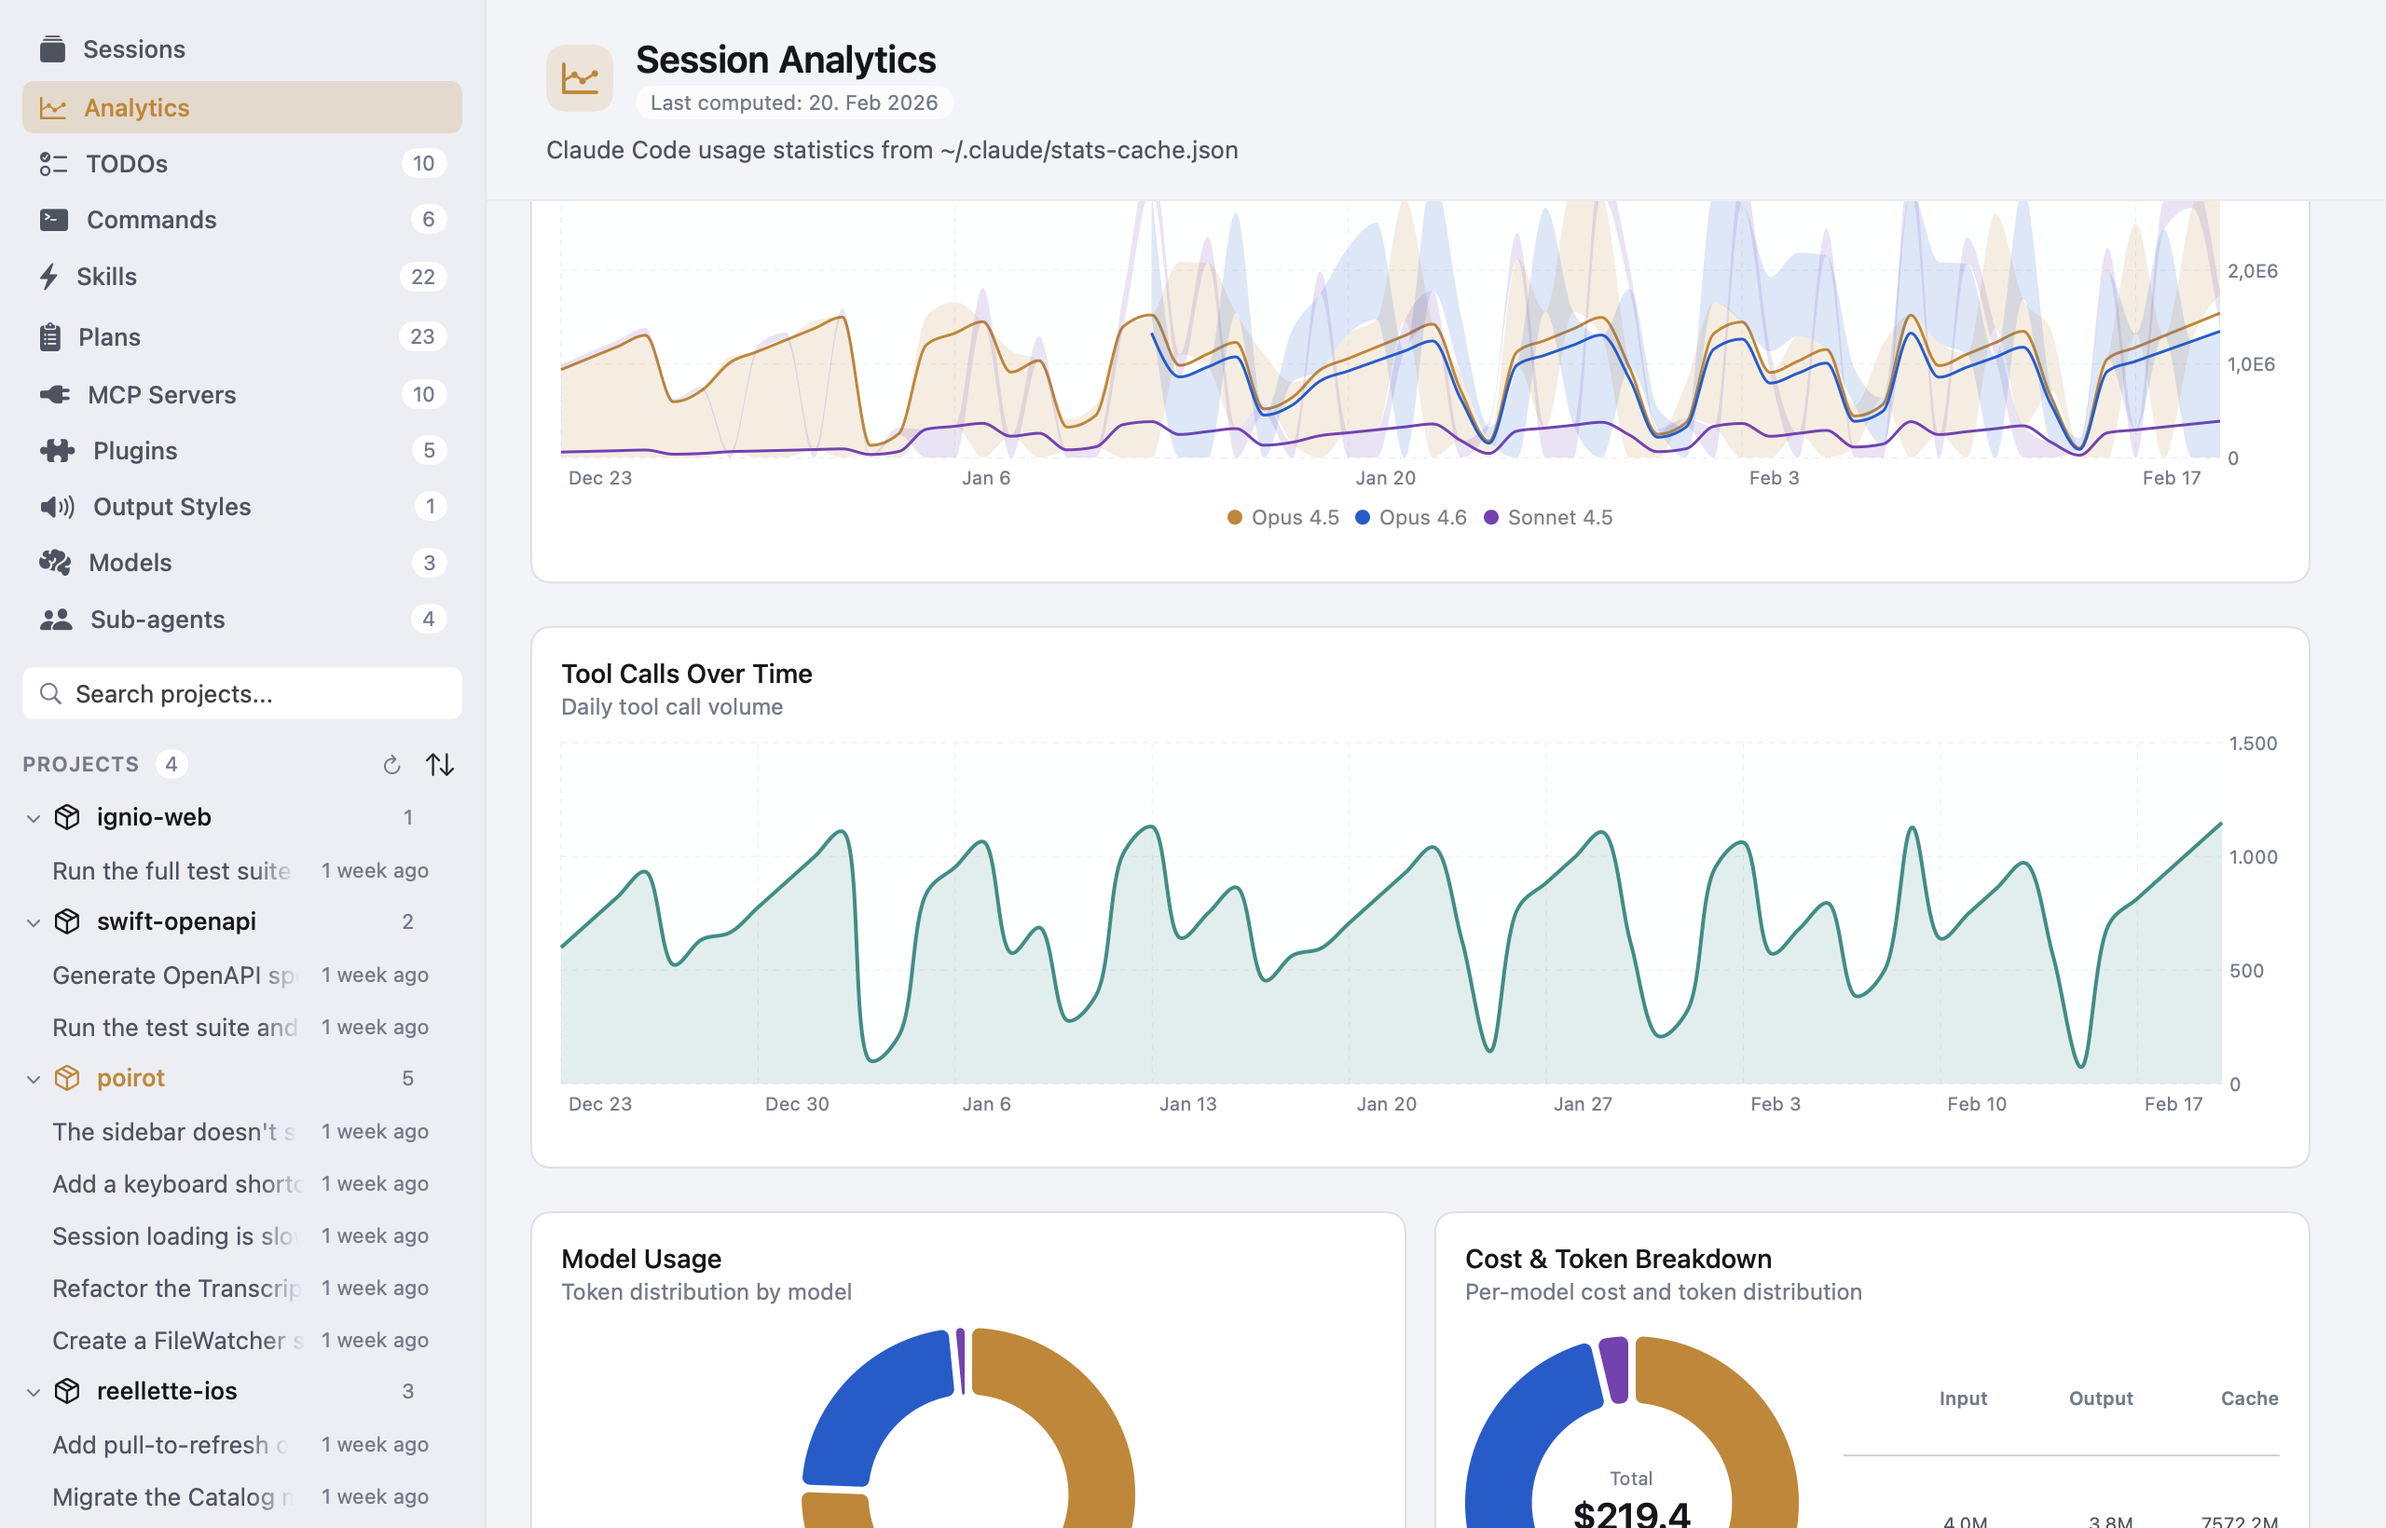
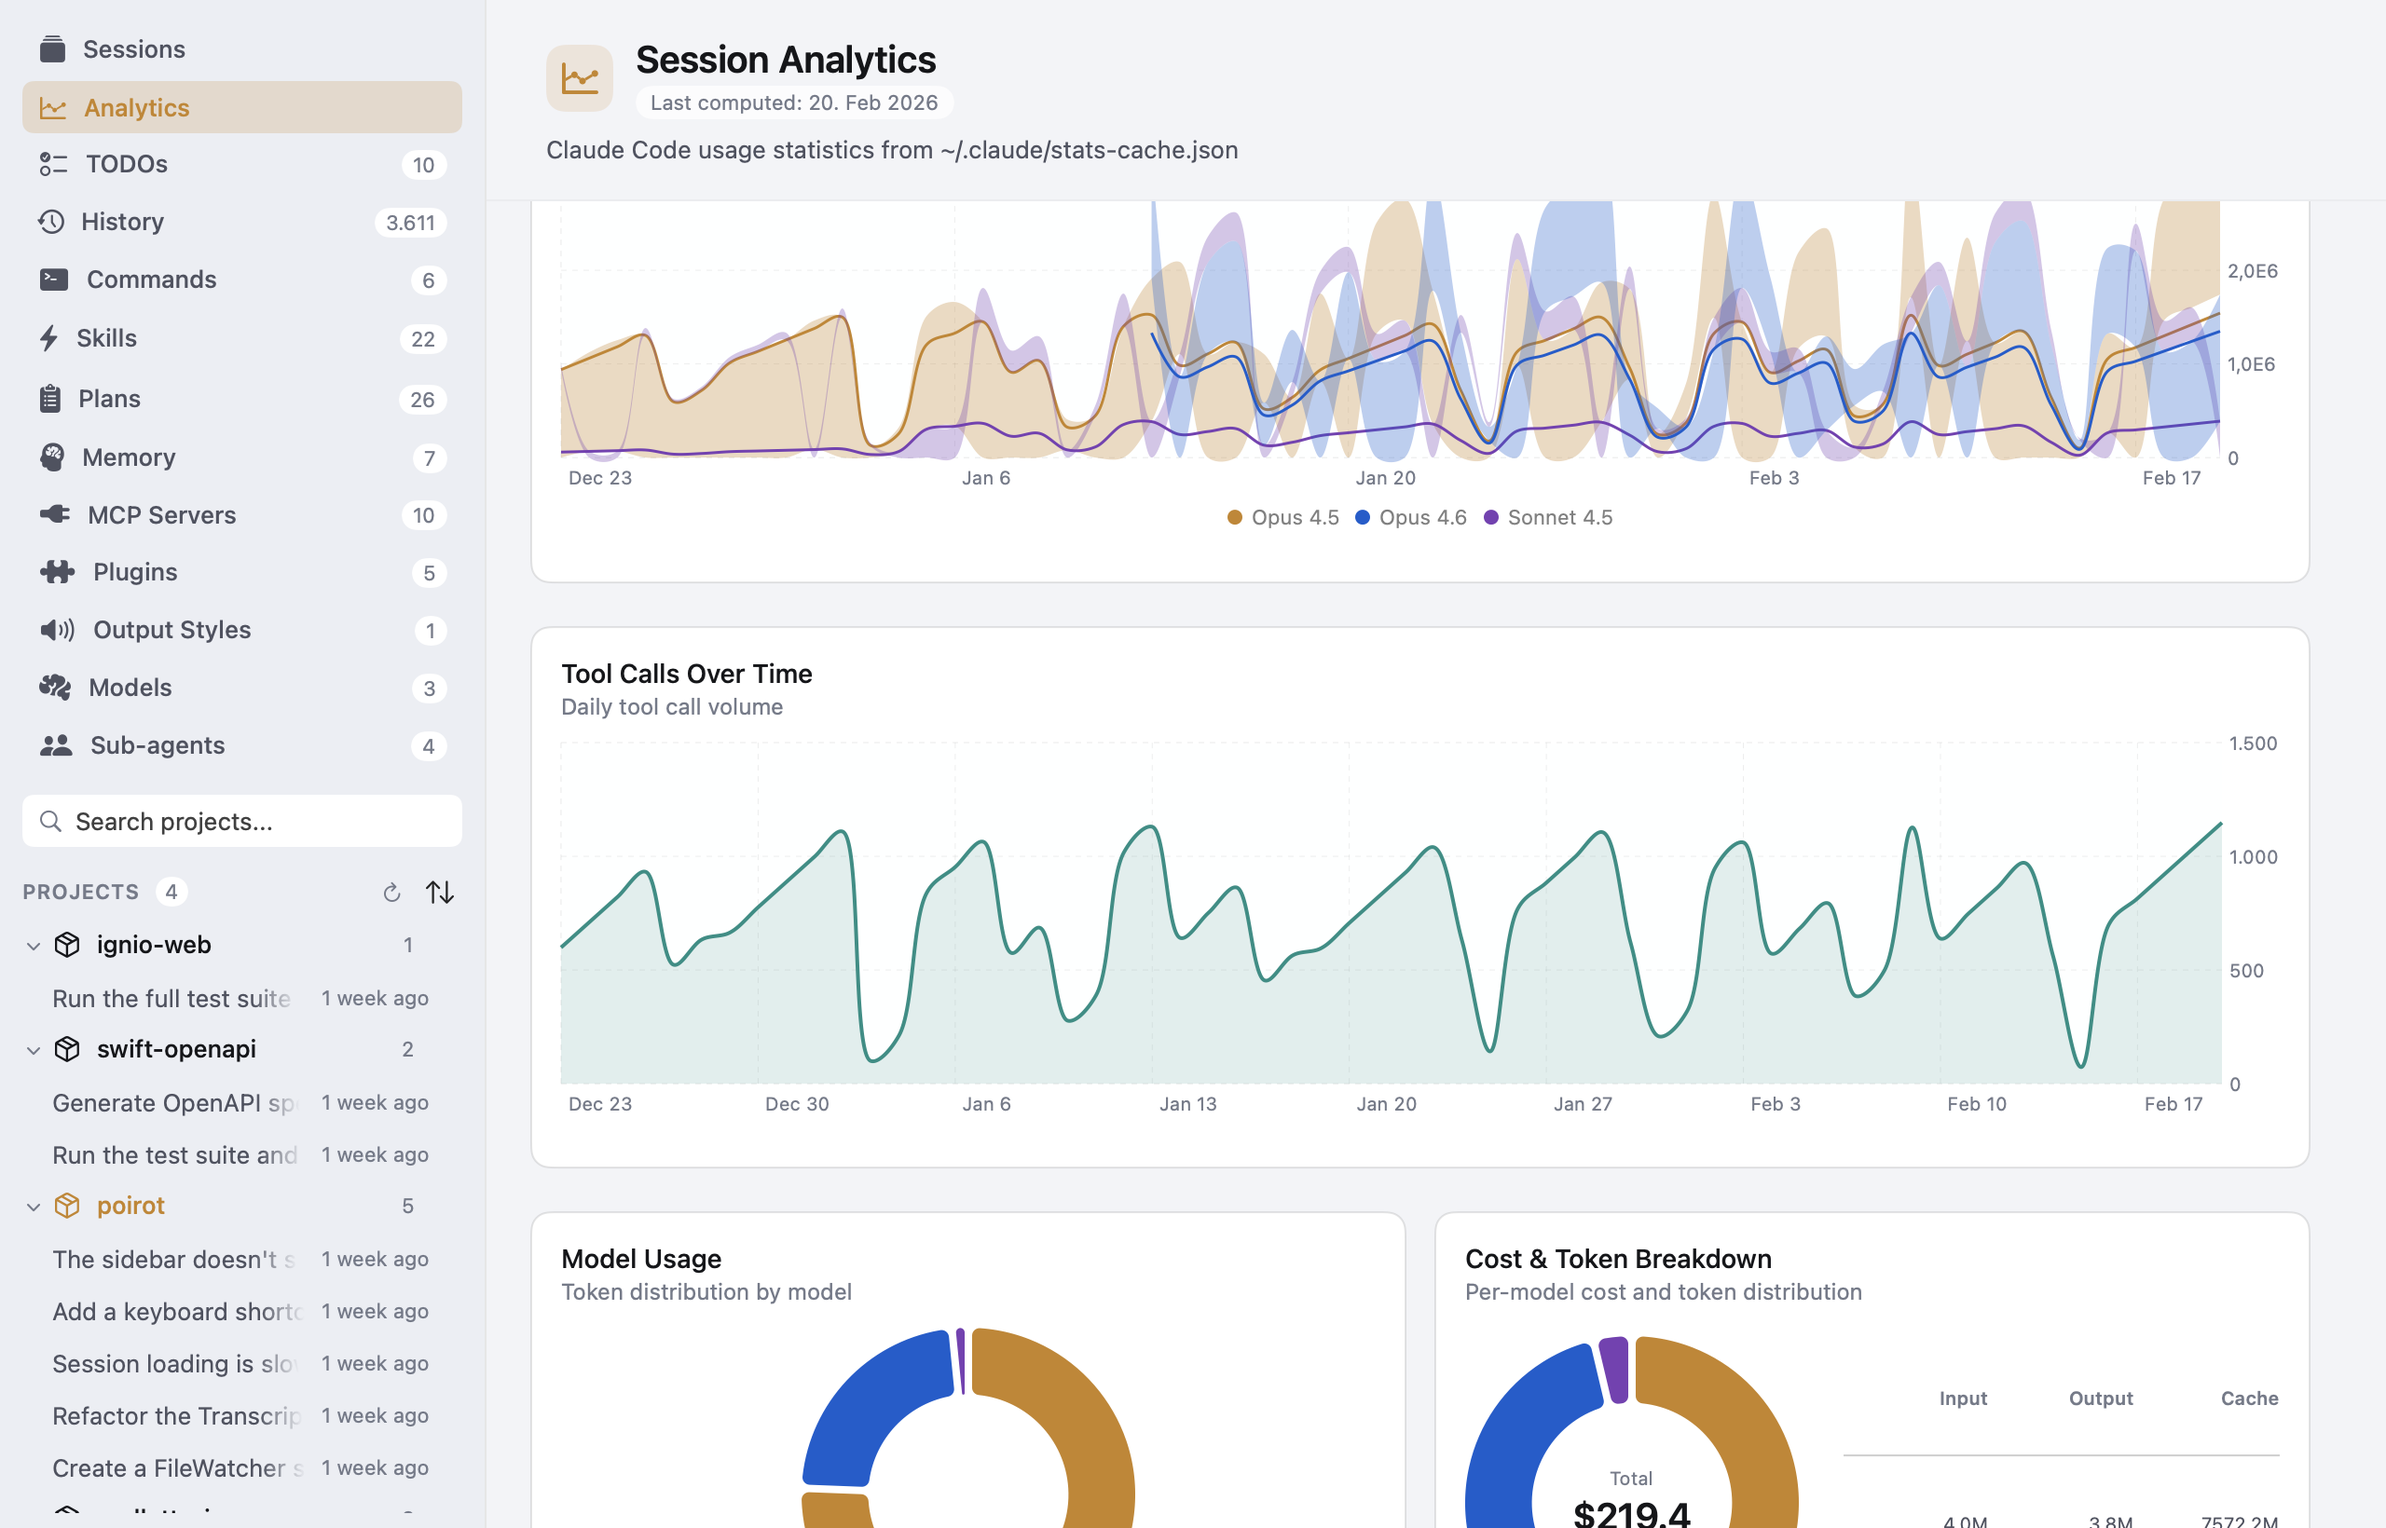
Regenerate showcase screenshots with Memory sidebar entry
Update all full-app screenshots to reflect the new Memory item in the
sidebar. Add 23-memory.png and fix README image reference.

diff --git a/README.md b/README.md
@@ -182,7 +182,7 @@ See AI-generated session analysis at the top of each session detail. A collapsib
 Browse Claude Code's auto-memory files per project. MEMORY.md is the main entrypoint loaded into every conversation, and topic files contain detailed notes organized by subject. Filter by project, view rendered markdown, and search across all memories with live file watching.
 
 <p align="center">
-  <img src="assets/showcase/21-memory.png" alt="Memory" width="720" />
+  <img src="assets/showcase/23-memory.png" alt="Memory" width="720" />
 </p>
 
 ---
